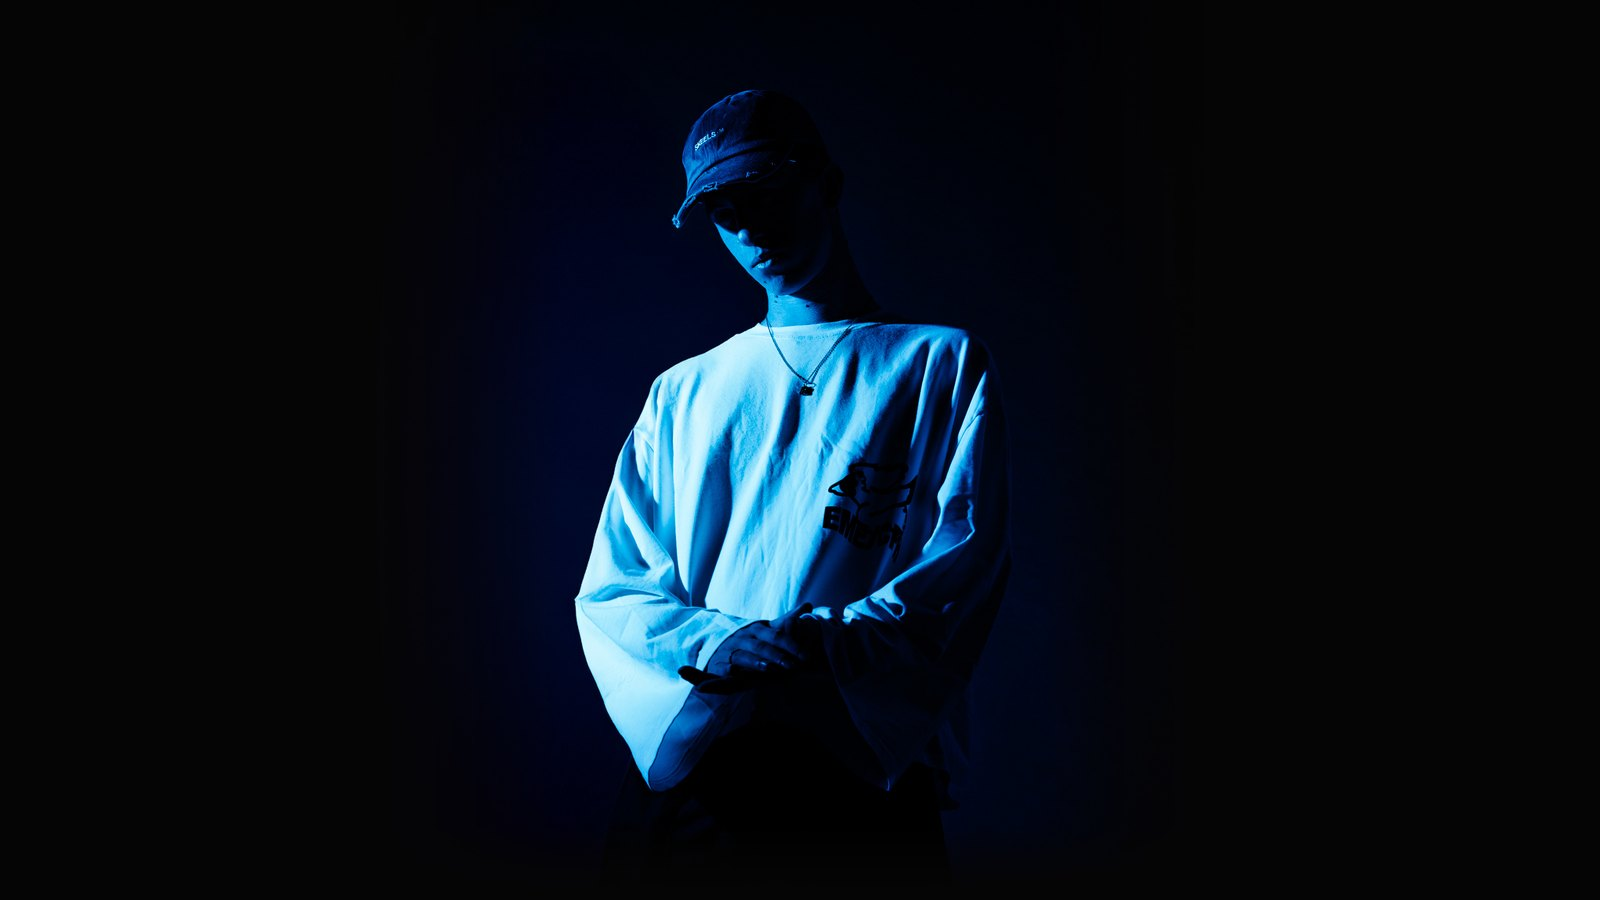
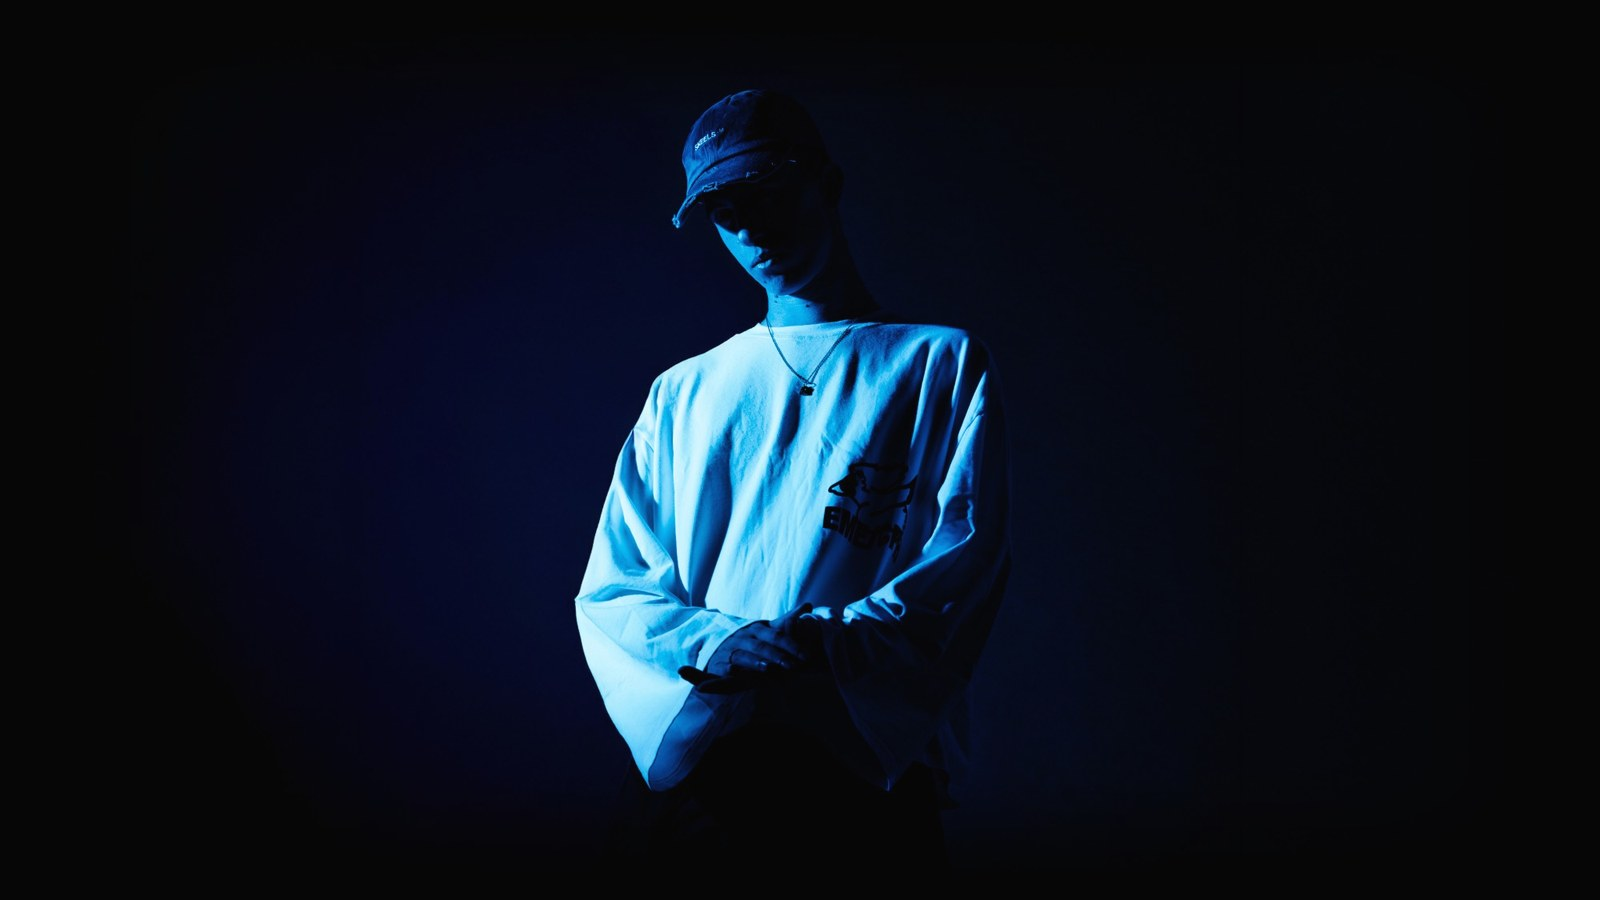
Use new hero photo and blend it into the page background
- New desktop hero (2000px), blacks lifted to #060606 and all edges faded
  into the background so no photo edge shows, even during the parallax.
- Same edge treatment on the mobile hero, which showed a hard rectangle.
- Keep page content on composited layers so Chrome on macOS renders --ink
  as one colour across sections.

Changed region(s): [[0.1875, 0.3422, 0.2812, 0.7156]]

diff --git a/index.html b/index.html
@@ -73,10 +73,10 @@
   {
    "@type": "ImageObject",
    "@id": "https://arlamusic.com/#heroimage",
-   "url": "https://arlamusic.com/assets/hero-wide-3200.jpg",
-   "contentUrl": "https://arlamusic.com/assets/hero-wide-3200.jpg",
-   "width": 3200,
-   "height": 1800,
+   "url": "https://arlamusic.com/assets/hero-wide-2000.jpg",
+   "contentUrl": "https://arlamusic.com/assets/hero-wide-2000.jpg",
+   "width": 2000,
+   "height": 1125,
    "caption": "ARLA photographed in deep blue light"
   },
   {
@@ -543,8 +543,8 @@
     <picture>
       <source media="(max-width:860px)" type="image/webp" srcset="/assets/hero-tall.webp">
       <source media="(max-width:860px)" srcset="/assets/hero-tall.jpg">
-      <source type="image/webp" srcset="/assets/hero-wide-1600.webp 1600w, /assets/hero-wide-3200.webp 3200w" sizes="100vw">
-      <img src="/assets/hero-wide-1600.jpg" srcset="/assets/hero-wide-1600.jpg 1600w, /assets/hero-wide-3200.jpg 3200w" sizes="100vw"
+      <source type="image/webp" srcset="/assets/hero-wide-1600.webp 1600w, /assets/hero-wide-2000.webp 2000w" sizes="100vw">
+      <img src="/assets/hero-wide-1600.jpg" srcset="/assets/hero-wide-1600.jpg 1600w, /assets/hero-wide-2000.jpg 2000w" sizes="100vw"
            width="1600" height="900" fetchpriority="high" decoding="async"
            alt="ARLA, wearing a cap with his head lowered, photographed in deep blue light">
     </picture>

diff --git a/assets/site.css b/assets/site.css
@@ -218,6 +218,10 @@ main{position:relative;z-index:1}
 @keyframes mediaout{to{opacity:.35;transform:translateY(32vh)}}
 @keyframes footout{to{opacity:0}}
 .over{position:relative;z-index:2;background:var(--ink)}
+/* Chrome on macOS can colour-convert the root layer and composited layers
+   differently, so the same --ink showed as two blacks (6 vs 8) between
+   sections. Keep all page content on composited layers so it renders as one. */
+main,.foot{will-change:transform}
 
 /* ─── ABOUT / CREDENTIALS ─── */
 .about{padding-top:clamp(88px,13vh,150px)}

diff --git a/build.py b/build.py
@@ -269,8 +269,8 @@ def build_home():
              "description": "Official site of ARLA, melodic techno DJ and producer from Barcelona, Spain.", "inLanguage": "en", "publisher": {"@id": ARTIST_ID}},
             {"@type": "WebPage", "@id": BASE + "/#webpage", "url": BASE + "/", "name": title, "isPartOf": {"@id": BASE + "/#website"},
              "about": {"@id": ARTIST_ID}, "primaryImageOfPage": {"@id": BASE + "/#heroimage"}, "inLanguage": "en"},
-            {"@type": "ImageObject", "@id": BASE + "/#heroimage", "url": BASE + "/assets/hero-wide-3200.jpg", "contentUrl": BASE + "/assets/hero-wide-3200.jpg",
-             "width": 3200, "height": 1800, "caption": "ARLA photographed in deep blue light"},
+            {"@type": "ImageObject", "@id": BASE + "/#heroimage", "url": BASE + "/assets/hero-wide-2000.jpg", "contentUrl": BASE + "/assets/hero-wide-2000.jpg",
+             "width": 2000, "height": 1125, "caption": "ARLA photographed in deep blue light"},
             artist_node(),
         ] + [recording_node(t) for t in TRACKS],
     }
@@ -288,8 +288,8 @@ def build_home():
     <picture>
       <source media="(max-width:860px)" type="image/webp" srcset="/assets/hero-tall.webp">
       <source media="(max-width:860px)" srcset="/assets/hero-tall.jpg">
-      <source type="image/webp" srcset="/assets/hero-wide-1600.webp 1600w, /assets/hero-wide-3200.webp 3200w" sizes="100vw">
-      <img src="/assets/hero-wide-1600.jpg" srcset="/assets/hero-wide-1600.jpg 1600w, /assets/hero-wide-3200.jpg 3200w" sizes="100vw"
+      <source type="image/webp" srcset="/assets/hero-wide-1600.webp 1600w, /assets/hero-wide-2000.webp 2000w" sizes="100vw">
+      <img src="/assets/hero-wide-1600.jpg" srcset="/assets/hero-wide-1600.jpg 1600w, /assets/hero-wide-2000.jpg 2000w" sizes="100vw"
            width="1600" height="900" fetchpriority="high" decoding="async"
            alt="ARLA, wearing a cap with his head lowered, photographed in deep blue light">
     </picture>
@@ -576,7 +576,7 @@ def build_sitemap():
         imgs = "".join(f"\n    <image:image><image:loc>{BASE}{i[0]}</image:loc><image:title>{e(i[1])}</image:title></image:image>" for i in images)
         return f"  <url>\n    <loc>{BASE}{loc}</loc>\n    <lastmod>{TODAY}</lastmod>\n    <priority>{prio}</priority>{imgs}\n  </url>"
     covers = [(f'/assets/{t["cover"]}.jpg', full_title(t)) for t in TRACKS if t["cover"]]
-    out = [url("/", "1.0", [("/assets/hero-wide-3200.jpg", "ARLA")] + covers), url("/releases/", "0.9"), url("/free-downloads/", "0.9")]
+    out = [url("/", "1.0", [("/assets/hero-wide-2000.jpg", "ARLA")] + covers), url("/releases/", "0.9"), url("/free-downloads/", "0.9")]
     for t in TRACKS:
         out.append(url(path_of(t), "0.8" if t["official"] else "0.7", [(f'/assets/{t["cover"]}.jpg', full_title(t))] if t["cover"] else []))
     return '<?xml version="1.0" encoding="UTF-8"?>\n<urlset xmlns="http://www.sitemaps.org/schemas/sitemap/0.9" xmlns:image="http://www.google.com/schemas/sitemap-image/1.1">\n' + "\n".join(out) + "\n</urlset>\n"
